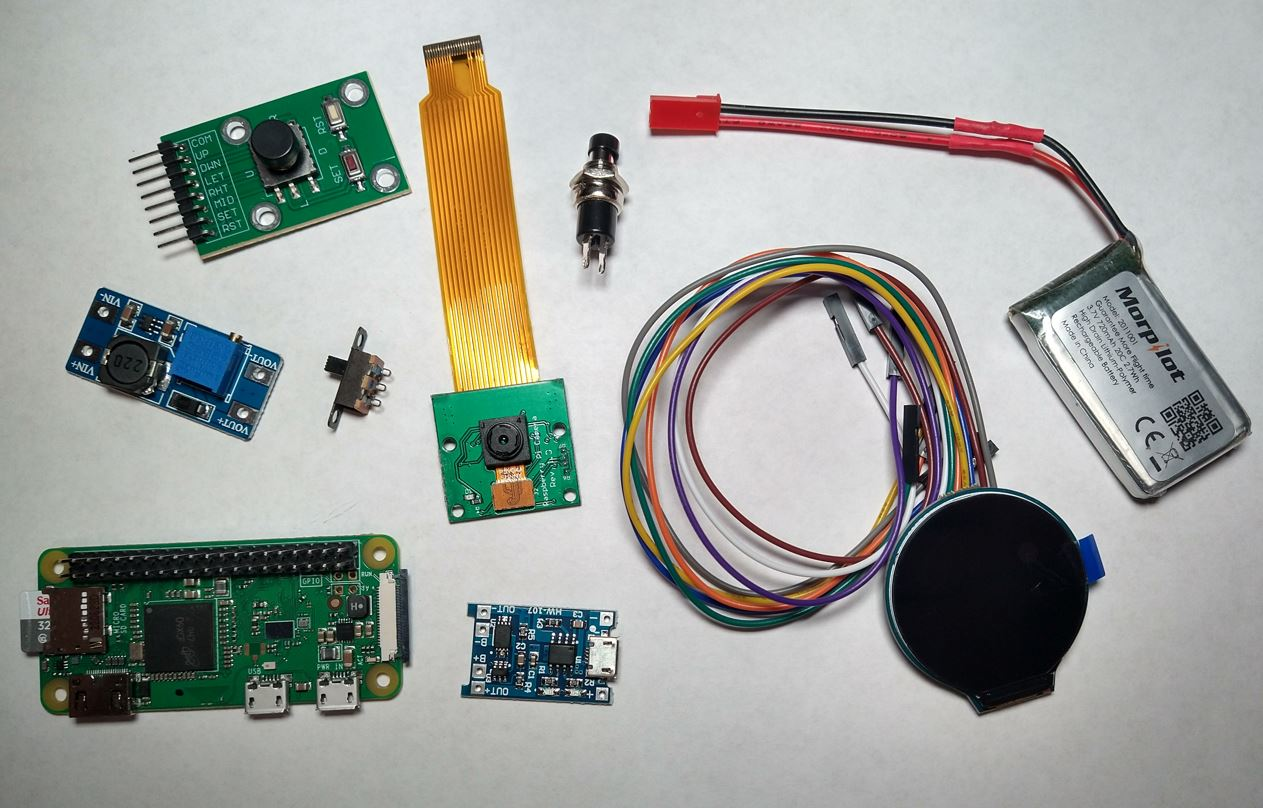
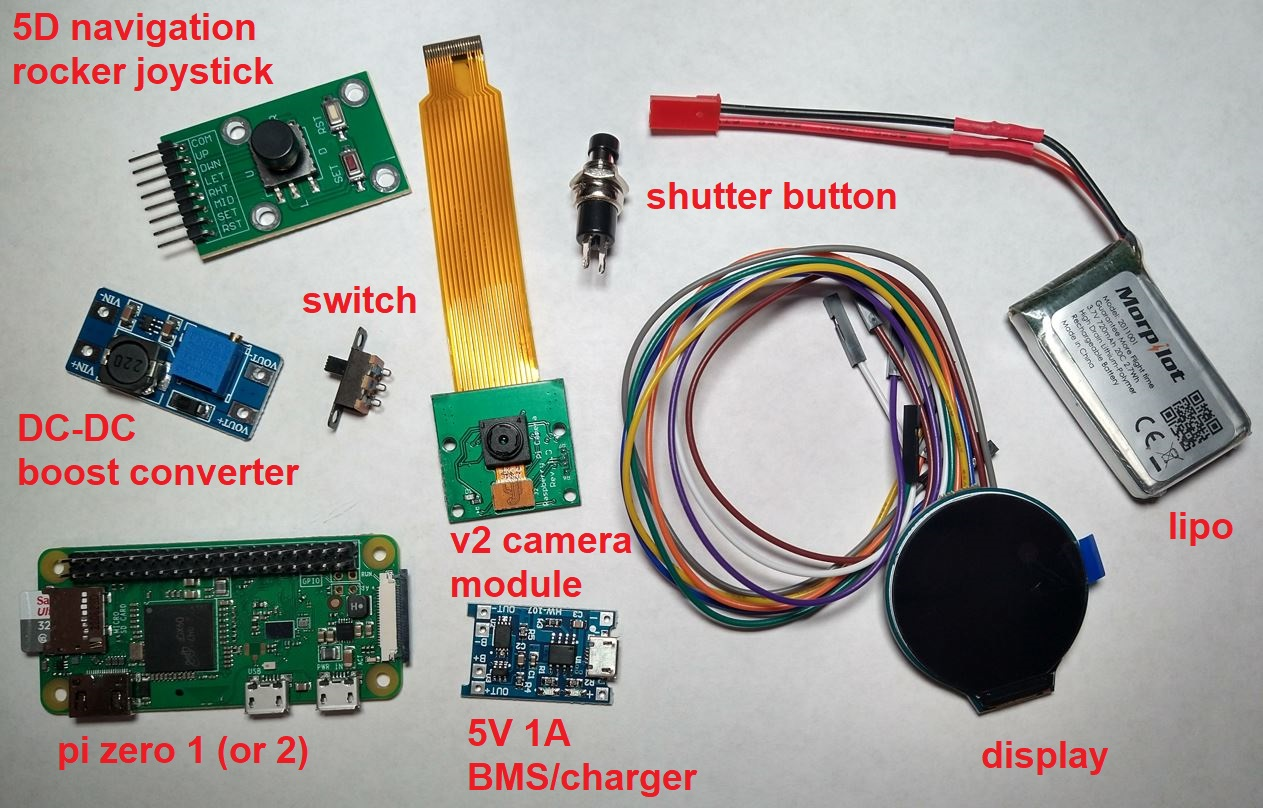
add wiring diagram

diff --git a/camera/pi-zero/hardware/README.md b/camera/pi-zero/hardware/README.md
@@ -14,6 +14,14 @@ $70.00 camera cost excluding printing material and screws
 
 <img src="./parts.JPG"/>
 
+### Wiring
+
+<img src="./wiring.png"/>
+
+Sorry this is a pretty lazy one but basic wiring no step down or other sensors
+
+Refer to annotated image above for what each part is
+
 ### Disclaimer
 
 This uses a cheap charger/bms that gets very hot. Also the charger is more intended for an 18650 cell (low voltage cutoff) so the software tries to prevent going that low for a pouch-style 3.7V lipo cell that ideally does not go below 3.7V or 3.0V max.

diff --git a/DEVLOG.md b/DEVLOG.md
@@ -77,6 +77,8 @@ Quick break
 
 It's assembled at this point, drew first menu scene, still need lots of code
 
+Also need to provide the cliche MS paint wiring diagram and pins
+
 ---
 
 02/21/2024

diff --git a/README.md b/README.md
@@ -2,6 +2,10 @@
 
 Modular body raspberry pi camera
 
+<img src="iso-front.JPG"/>
+
+<img src="back-lcd.JPG"/>
+
 This version uses round display (non-touch) with 5D joystick
 
 ### Modularity
